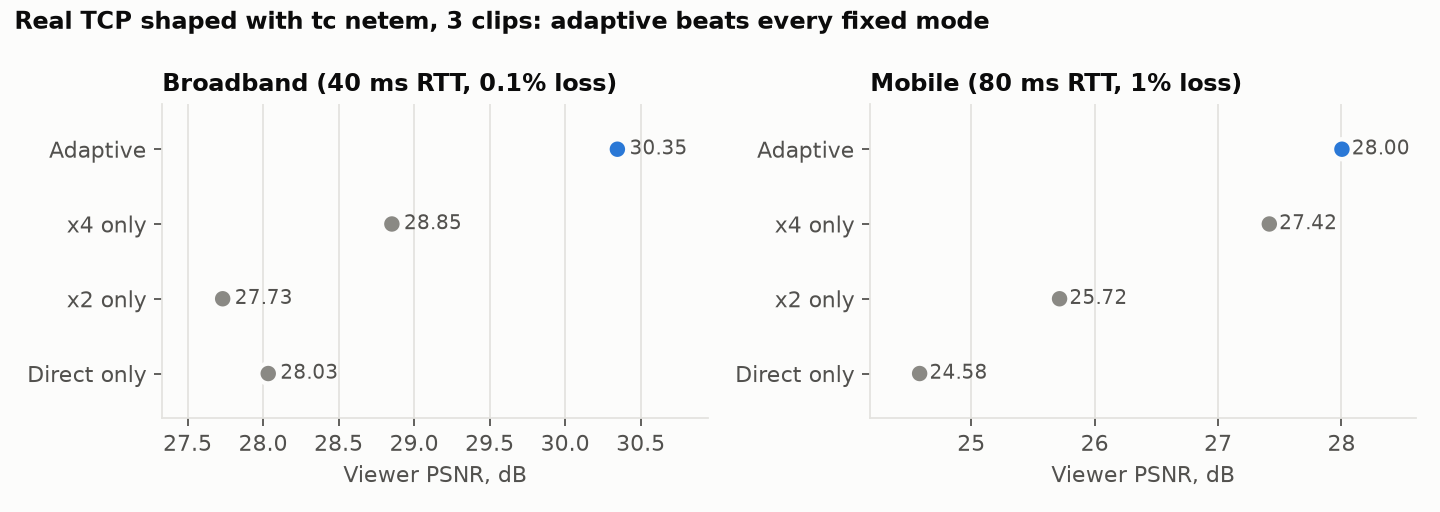
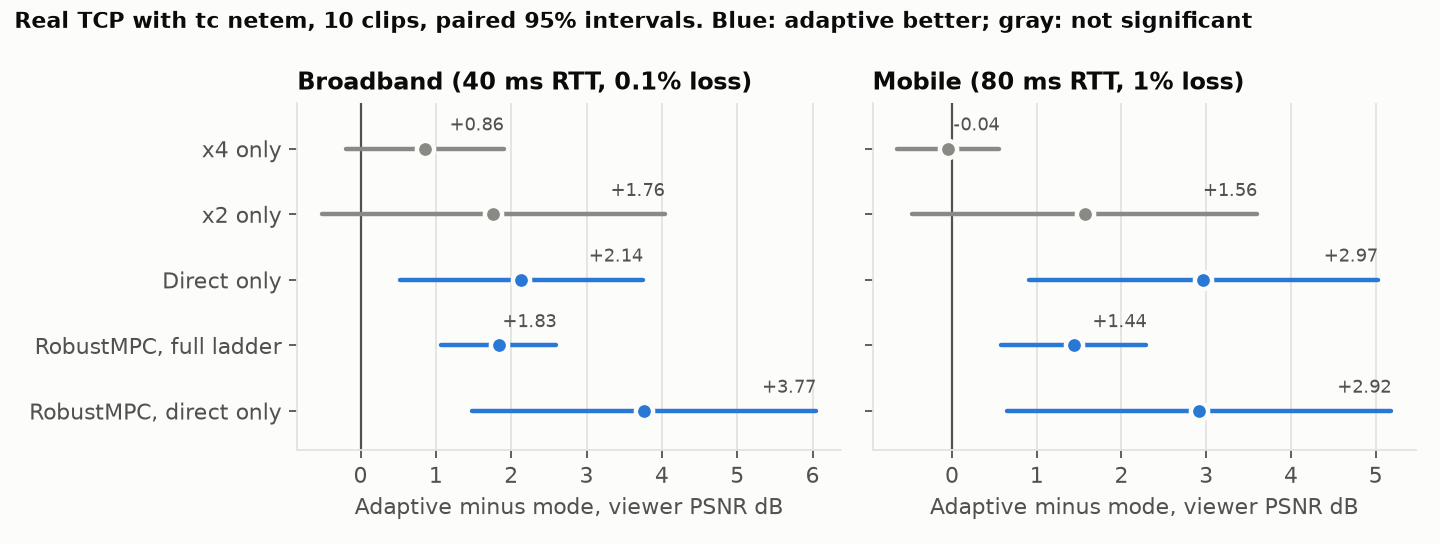
Repeat the tc netem comparison on 10 clips with confidence intervals and RobustMPC
Over real TCP, adaptive beats RobustMPC by 1.83 dB (broadband) and 1.44 dB (mobile)
and direct-only delivery by 2.1-3.0 dB, but is level with x4-only, which has fewer
late frames. This revises the three-clip result that adaptive beat every fixed mode.

diff --git a/scripts/plot_report.py b/scripts/plot_report.py
@@ -7,8 +7,8 @@ Needs only matplotlib and numpy (any Python with them, for example the system on
 
 Inputs: configs/rate_quality.json, results/baselines/offline.json,
 results/no-state/offline.json, results/final/baselines-live/summary.json,
-results/final/compare/summary.json, results/netem-*/summary.json,
-results/multiclip/ci.json.
+results/final/compare/summary.json, results/multiclip/ci.json,
+results/multiclip-netem-*/ci.json.
 """
 from __future__ import annotations
 
@@ -176,24 +176,35 @@ def timeline(clip: str = 'NRqG3AEOVGg@1440.mp4') -> None:
     plt.close(fig)
 
 
+def forest(ax, ci: dict, rows: list[tuple[str, str]], metric: str, digits: int) -> None:
+    """Adaptive minus each mode with its 95% interval: blue if adaptive is better, orange if worse, gray if neither."""
+    ax.axvline(0, color=INK2, linewidth=1)
+    for i, (mode, _) in enumerate(rows):
+        d = ci[mode][metric]['reference_minus_mode']
+        lo, hi = d['mean'] - d['ci95'], d['mean'] + d['ci95']
+        colour = BLUE if lo > 0 else ORANGE if hi < 0 else GRAY
+        ax.plot([lo, hi], [i, i], color=colour, linewidth=2, solid_capstyle='round')
+        ax.scatter(d['mean'], i, s=60, color=colour, edgecolor=SURFACE, linewidth=2, zorder=3)
+        ax.text(hi, i + 0.28, f"{d['mean']:+.{digits}f}", ha='right', color=INK2, fontsize=8)
+    ax.grid(axis='y', visible=False)
+    ax.set_ylim(-0.6, len(rows) - 0.3)
+
+
 def netem() -> None:
-    fig, axes = plt.subplots(1, 2, figsize=(9, 3.2))
-    labels = {'direct': 'Direct only', 'x2': 'x2 only', 'x4': 'x4 only', 'adaptive': 'Adaptive'}
+    rows = [('x4', 'x4 only'), ('x2', 'x2 only'), ('direct', 'Direct only'), ('mpc', 'RobustMPC, full ladder'),
+            ('mpc-direct', 'RobustMPC, direct only')][::-1]
+    fig, axes = plt.subplots(1, 2, figsize=(9, 3.4), sharey=True)
     for ax, profile, title in ((axes[0], 'broadband', 'Broadband (40 ms RTT, 0.1% loss)'),
                                (axes[1], 'mobile', 'Mobile (80 ms RTT, 1% loss)')):
-        modes = runs(f'results/netem-{profile}/summary.json')
-        rows = [(labels[m], viewer(modes[m])) for m in labels]
-        names, values = zip(*rows)
-        dots(ax, names, values, [BLUE if n == 'Adaptive' else GRAY for n in names])
+        forest(ax, load(f'results/multiclip-netem-{profile}/ci.json')['modes'], rows, 'viewer_psnr', 2)
         ax.set_title(title)
-        ax.set_xlabel('Viewer PSNR, dB')
-        ax.grid(axis='y', visible=False)
-    fig.suptitle('Real TCP shaped with tc netem, 3 clips: adaptive beats every fixed mode', x=0.01, ha='left',
-                 fontsize=11, fontweight='bold', color=INK)
+        ax.set_xlabel('Adaptive minus mode, viewer PSNR dB')
+    axes[0].set_yticks(range(len(rows)), [label for _, label in rows])
+    fig.suptitle('Real TCP with tc netem, 10 clips, paired 95% intervals. Blue: adaptive better; gray: not significant',
+                 x=0.01, ha='left', fontsize=10, fontweight='bold', color=INK)
     fig.tight_layout()
     fig.savefig(OUT / 'netem.png', dpi=160)
     plt.close(fig)
-
 
 def multiclip() -> None:
     """Adaptive minus each mode, paired by clip, with 95% intervals (scripts/summarise_clips.py)."""
@@ -203,26 +214,15 @@ def multiclip() -> None:
             ('adaptive-span', 'SPAN in controller'), ('adaptive-cdavsr', 'CDA-VSR in controller'),
             ('adaptive-efrlfn', 'EfRLFN in controller')][::-1]
     fig, axes = plt.subplots(1, 2, figsize=(9, 4.0), sharey=True)
-    for ax, metric, title in ((axes[0], 'viewer_psnr', 'Viewer PSNR, dB'), (axes[1], 'viewer_vmaf', 'VMAF')):
-        ax.axvline(0, color=INK2, linewidth=1)
-        for i, (mode, _) in enumerate(rows):
-            d = ci[mode][metric]['reference_minus_mode']
-            lo, hi = d['mean'] - d['ci95'], d['mean'] + d['ci95']
-            colour = BLUE if lo > 0 else ORANGE if hi < 0 else GRAY
-            ax.plot([lo, hi], [i, i], color=colour, linewidth=2, solid_capstyle='round')
-            ax.scatter(d['mean'], i, s=60, color=colour, edgecolor=SURFACE, linewidth=2, zorder=3)
-            ax.text(hi, i + 0.28, f"{d['mean']:+.{2 if metric == 'viewer_psnr' else 1}f}", ha='right',
-                    color=INK2, fontsize=8)
+    for ax, metric, title, digits in ((axes[0], 'viewer_psnr', 'Viewer PSNR, dB', 2), (axes[1], 'viewer_vmaf', 'VMAF', 1)):
+        forest(ax, ci, rows, metric, digits)
         ax.set_title(f'Adaptive minus mode: {title}')
-        ax.grid(axis='y', visible=False)
-        ax.set_ylim(-0.6, len(rows) - 0.3)
     axes[0].set_yticks(range(len(rows)), [label for _, label in rows])
     fig.suptitle('Emulated link, 18 clips, paired 95% intervals. Blue: adaptive better; orange: worse; gray: not significant',
                  x=0.01, ha='left', fontsize=10, fontweight='bold', color=INK)
     fig.tight_layout()
     fig.savefig(OUT / 'multiclip.png', dpi=160)
     plt.close(fig)
-
 
 def main() -> None:
     OUT.mkdir(parents=True, exist_ok=True)

diff --git a/docs/REPORT.md b/docs/REPORT.md
@@ -41,8 +41,11 @@ Results:
   over the same ladder: +1.32 ± 0.44 dB, +7.4 VMAF and 33 ms lower p95 latency.
 - **Offline, the model leads on PSNR but not on perceptual metrics.** CDA-VSR and SPAN
   score higher VMAF at ×4, because UpStreamVSR was trained on a pixel loss.
-- **Over real TCP shaped with tc netem**, adaptive delivery beats every fixed delivery
-  mode: by 1.5 dB on a broadband profile and 0.6 dB on a mobile one.
+- **Over real TCP shaped with tc netem** (10 clips):
+  - Adaptive delivery beats RobustMPC by 1.4–1.8 dB and 720p-only delivery by 2.1–3.0 dB,
+    on a broadband profile and a mobile one.
+  - It does not beat fixed ×4 delivery significantly: +0.9 dB on broadband (not
+    significant), and level on mobile, where ×4 has the lower latency.
 - **Ablations** show that the sender's backlog guard is the largest single contribution
   (0.83 dB, and half the late frames).
 - **The recurrent memory**, borrowed from recent video super-resolution, added no
@@ -534,20 +537,48 @@ Bold Δ: the interval excludes zero.
 - **The three-clip result was clip luck.** On three clips ×2 only led by 0.35 dB; on 18,
   PSNR is tied.
 
-Real TCP with tc netem (3 clips):
+Real TCP with tc netem, **10 clips** (adaptive minus mode, paired by clip, ± 95% CI;
+clips adaptive wins; bold: the interval excludes zero):
 
 ![tc netem](figures/netem.png)
+
+| vs | Broadband PSNR dB | Broadband VMAF | Mobile PSNR dB | Mobile VMAF |
+|---|---:|---:|---:|---:|
+| direct only | **+2.14 ± 1.61** (8/10) | **+6.7 ± 4.8** | **+2.97 ± 2.06** (7/10) | **+6.4 ± 5.6** |
+| ×2 only | +1.76 ± 2.27 (6/10) | +2.6 ± 8.0 | +1.56 ± 2.03 (6/10) | −1.3 ± 5.4 |
+| ×4 only | +0.86 ± 1.04 (7/10) | **+7.1 ± 4.0** | −0.04 ± 0.60 (5/10) | +1.4 ± 3.1 |
+| RobustMPC, full ladder | **+1.83 ± 0.77** (9/10) | **+10.0 ± 3.7** | **+1.44 ± 0.86** (9/10) | **+5.8 ± 5.4** |
+| RobustMPC, direct only | **+3.77 ± 2.28** (9/10) | **+13.9 ± 8.0** | **+2.92 ± 2.27** (8/10) | +6.5 ± 7.8 |
+| *adaptive itself* | *30.07 dB* | *61.1* | *27.19 dB* | *46.0* |
+
+- **Adaptive clearly beats RobustMPC and 720p delivery on both profiles.** The MPC gap
+  is larger here than on the emulated link (+1.32 dB). Over TCP, MPC's lagging estimate
+  and missing backlog guard cost more, and its longest freeze is 1.7–2.5 s longer.
+- **×4 only is not beaten.**
+  - On broadband, adaptive leads in VMAF and LPIPS, but its PSNR lead (+0.86 dB) is not
+    significant.
+  - On mobile, the two tie on every quality metric.
+  - ×4 only, the smallest stream, has the fewest late and skipped frames and the
+    shortest freezes on both profiles. On mobile, adaptive has 87 more late and skipped
+    frames and a 39 ms higher p95 latency.
+- **×2 only** is behind on average (1.6–1.8 dB), but it varies too much across clips
+  for significance.
+- **Why real TCP hurts fixed modes:** a lost packet stalls everything behind it, so
+  rates that fit on an emulated link overflow the deadline.
+- **This revises the three-clip run** (below), where adaptive beat every fixed mode.
+  On a lossy path, always sending the smallest stream is a strong policy, and the
+  controller still pays in late frames when it moves to larger streams.
+
+The earlier three-clip run, for reference:
 
 | Profile | Direct | ×2 | ×4 | **Adaptive** |
 |---|---:|---:|---:|---:|
 | Broadband (40 ms RTT, 0.1% loss) | 28.03 | 27.73 | 28.85 | **30.35** |
 | Mobile (80 ms RTT, 1% loss) | 24.58 | 25.72 | 27.42 | **28.00** |
 
-- **Adaptive is best on both profiles:** +1.5 dB on broadband and +0.6 dB on mobile.
-- **Why real TCP hurts fixed modes:** a lost packet stalls everything behind it, so
-  rates that fit on an emulated link overflow the deadline. Only the controller backs
-  off.
-- **Per clip,** adaptive is best in 3 of 6 runs and within 0.3 dB in 2 more. It loses
+- On these three clips adaptive was best on both profiles: +1.5 dB on broadband and
+  +0.6 dB on mobile.
+- **Per clip,** adaptive was best in 3 of 6 runs and within 0.3 dB in 2 more. It loses
   clearly once, to ×4 only, on one clip over mobile.
 - **Noise:** real-network runs vary by 0.3–1.5 dB from run to run, even for direct,
   which uses no model.
@@ -622,10 +653,15 @@ another process holding the GPU at 98% utilisation.
   maximises predicted PSNR. Where direct and ×2 are nearly tied in PSNR, it switches to
   direct, which costs VMAF and LPIPS against staying on ×2. A perceptual quality table,
   or a switching penalty, is the natural fix.
-- **Three clips were not enough.** Two three-clip conclusions shrank or reversed on 18
-  clips:
+- **Three clips were not enough.** Three three-clip conclusions shrank or reversed on
+  more clips:
   - the margin over the published models;
-  - ×2 only beating adaptive.
+  - ×2 only beating adaptive on the emulated link;
+  - adaptive beating ×4 only over real TCP.
+- **On lossy paths, the controller should be more cautious.** Over tc netem, fixed ×4
+  matches it in quality with fewer late frames. A capacity estimate that accounts for
+  loss and RTT, or a tighter latency budget on lossy links, is the next controller
+  change to try.
   Paired confidence intervals over clips should be the default.
 - **The bandwidth case for upscaling is real but bounded.** Below about 1 Mbit/s,
   sending fewer pixels and upscaling wins; above that, direct wins. The controller's job
@@ -636,7 +672,9 @@ another process holding the GPU at 98% utilisation.
 - **Hardware and scale:**
   - one laptop GPU;
   - the emulated-link and offline comparisons use 18 clips of 30 s each;
-  - the tc netem runs use 3 clips, and each mode runs once per clip;
+  - the tc netem runs use 10 clips;
+  - each mode runs once per clip, so run-to-run noise over real TCP (0.3–1.5 dB) is
+    inside the intervals but not separated from clip differences;
   - networks are emulated or shaped on one machine.
 - **Metrics:** PSNR, VMAF and LPIPS, but no user study.
   - The model was trained for PSNR, and it trails CDA-VSR and SPAN on perceptual
@@ -651,7 +689,8 @@ another process holding the GPU at 98% utilisation.
 - A perceptual term (LPIPS or a feature loss) in fine-tuning, and a quality table in
   VMAF for the controller.
 - A small user study.
-- The tc netem comparison on more clips (`sudo bash scripts/run_netem.sh multi`).
+- A loss- and RTT-aware capacity estimate for the controller, to close the gap to fixed
+  ×4 delivery on lossy paths.
 - A weaker GPU, where anytime depth and GPU awareness should matter.
 - Fine-tuning the published models on StreamSR, for a stricter comparison.
 - 1080p output.

diff --git a/docs/COMPARISON.md b/docs/COMPARISON.md
@@ -395,7 +395,8 @@ model in brackets:
 | mobile | x4 | 27.42 (25.95) | 2217 / 35 / 448 | 161 | 17.5 (21.7) |
 | mobile | **adaptive** | **28.00** (27.44) | 1886 / 130 / 684 | 227 | 11.2 (13.6) |
 
-- **Adaptive is still best on both profiles**: +1.5 dB over the best fixed mode on
+- **Adaptive is still best on both profiles** (three clips; on 10 clips it is level
+  with x4 only, see the last section): +1.5 dB over the best fixed mode on
   broadband and +0.6 dB on mobile (earlier model: +1.9 and +0.9). Per clip it is best
   in 3 of 6 runs and within 0.3 dB of the best in 2 more. It loses clearly only on
   LjOrDJOjSMg over mobile, to x4 only (27.40 vs 25.20 dB), as with the earlier model.
@@ -536,3 +537,74 @@ python scripts/compare_modes.py data/test-clips/*.mp4 --half --resume --out resu
     --modes direct x2 x4 adaptive mpc mpc-direct adaptive-efrlfn adaptive-span adaptive-nanovsr adaptive-cdavsr
 python scripts/summarise_clips.py results/multiclip/summary.json --json results/multiclip/ci.json --markdown results/multiclip/ci.md
 ```
+
+## tc netem on 10 clips, with confidence intervals and RobustMPC (2026-11-25)
+
+`sudo bash scripts/run_netem.sh multi`. The first 10 test clips run over real TCP
+shaped with tc netem. Same profiles and rate schedule as above; modes direct, x2, x4,
+adaptive, mpc and mpc-direct; final model (results/multiclip-netem-broadband,
+results/multiclip-netem-mobile; 120 runs).
+
+**Run validity:**
+- **One run redone.** Broadband p-kAI-qOeJA mpc-direct ran while other work loaded the
+  CPU: its 720p decode was 30% slower than in the clean emulated run, and the clock was
+  4.02 GHz. It was redone (results/multiclip-netem-broadband).
+- **All others are clean:**
+  - CPU at 4.0–4.3 GHz;
+  - decode times at or below the clean runs of the same clips.
+- **Two mobile MPC runs** (LjOrDJOjSMg mpc, NRqG3AEOVGg mpc-direct) show up to 0.9 s
+  of server release lag. This lag comes from the network, not the machine:
+  - The encoder stayed 33 ms ahead and the CPU clock was normal.
+  - The sender's blocking write stalled because MPC sent more than the lossy link
+    carried, with no backlog guard.
+  - That is part of what this test measures, so the runs are kept.
+
+Adaptive minus each mode, paired by clip, ± 95% CI (clips adaptive wins). Bold: the
+interval excludes zero.
+
+| Profile | vs | Viewer PSNR dB | VMAF | LPIPS | p95 ms | Late + skipped | Longest freeze ms |
+|---|---|---:|---:|---:|---:|---:|---:|
+| broadband | direct | **+2.14 ± 1.61** (8/10) | **+6.7 ± 4.8** | **−0.055 ± 0.049** | −3 ± 21 | **−116 ± 103** | −2227 ± 2940 |
+| broadband | x2 | +1.76 ± 2.27 (6/10) | +2.6 ± 8.0 | −0.042 ± 0.065 | −3 ± 14 | −81 ± 123 | −1786 ± 2629 |
+| broadband | x4 | +0.86 ± 1.04 (7/10) | **+7.1 ± 4.0** | **−0.022 ± 0.020** | **+12 ± 9** | **+96 ± 33** | **+891 ± 473** |
+| broadband | mpc | **+1.83 ± 0.77** (9/10) | **+10.0 ± 3.7** | **−0.052 ± 0.035** | +4 ± 9 | −42 ± 59 | **−2538 ± 2075** |
+| broadband | mpc-direct | **+3.77 ± 2.28** (9/10) | **+13.9 ± 8.0** | **−0.092 ± 0.067** | −38 ± 54 | **−148 ± 103** | **−4330 ± 3781** |
+| mobile | direct | **+2.97 ± 2.06** (7/10) | **+6.4 ± 5.6** | **−0.063 ± 0.053** | +7 ± 39 | **−172 ± 107** | **−2806 ± 2410** |
+| mobile | x2 | +1.56 ± 2.03 (6/10) | −1.3 ± 5.4 | −0.025 ± 0.050 | +6 ± 46 | −80 ± 107 | −2078 ± 2316 |
+| mobile | x4 | −0.04 ± 0.60 (5/10) | +1.4 ± 3.1 | −0.002 ± 0.020 | +39 ± 40 | **+87 ± 64** | +520 ± 655 |
+| mobile | mpc | **+1.44 ± 0.86** (9/10) | **+5.8 ± 5.4** | **−0.029 ± 0.026** | +13 ± 33 | −46 ± 78 | **−1704 ± 1191** |
+| mobile | mpc-direct | **+2.92 ± 2.27** (8/10) | +6.5 ± 7.8 | −0.066 ± 0.065 | **−51 ± 48** | **−140 ± 125** | **−4324 ± 3388** |
+
+Adaptive itself: 30.07 ± 2.56 dB on broadband and 27.19 ± 2.33 dB on mobile.
+
+### What the 10 clips show
+
+- **Against RobustMPC, the controller is ahead on both profiles:**
+  - +1.83 ± 0.77 dB (broadband) and +1.44 ± 0.86 dB (mobile), on 9 of 10 clips each;
+  - higher VMAF and lower LPIPS;
+  - a longest freeze 1.7–2.5 s shorter.
+  The gain is larger than on the emulated link (+1.32 dB). Over real TCP, MPC's lagging
+  estimate and lack of a backlog guard cost more.
+- **Against 720p delivery, with or without MPC, the gain is large and significant:**
+  +2.1 to +3.8 dB.
+- **×4 only is not beaten.**
+  - On broadband, adaptive is +0.86 ± 1.04 dB in PSNR (not significant). It is
+    significantly ahead in VMAF (+7.1) and LPIPS.
+  - On mobile it ties: −0.04 ± 0.60 dB, with VMAF and LPIPS level.
+  - ×4 only has the lowest bitrate, so it has the fewest late and skipped frames, the
+    shortest freezes and the lowest p95 latency on both profiles.
+  - On mobile, adaptive's late and skipped frames are 87 higher, and its p95 latency
+    39 ± 40 ms higher.
+- **×2 only:** adaptive is ahead on average, by 1.6–1.8 dB, but the interval includes
+  zero. ×2 only fails badly on some clips and holds level on others.
+- **This revises the three-clip result.** On three clips, adaptive beat every fixed
+  mode, by +1.5 dB (broadband) and +0.6 dB (mobile). On 10 clips:
+  - it clearly beats direct-only delivery and RobustMPC;
+  - it is level with ×4 only, which has better latency and freezes.
+  On a lossy, high-delay path, the safest fixed choice (always the smallest stream)
+  is hard to beat. The controller still pays for its moves to larger streams in late
+  frames.
+- **Possible improvements:**
+  - make the capacity estimate account for loss and RTT, so the controller reacts to
+    TCP's effective rate;
+  - lower the latency budget on lossy paths.

diff --git a/docs/GOALS.md b/docs/GOALS.md
@@ -40,7 +40,7 @@ Complete a live video upscaling pipeline that balances four things:
 | 2 | Prepare the full StreamSR data and train on Kaggle | Third design trained at 32 channels: +0.82 dB over bicubic at x2, +1.15 at x4 on the test set (docs/MODEL.md). Earlier results were invalid because of a colour error in the Kaggle data, now fixed. 48-channel run after the quota reset |
 | 3 | Live integration: motion vectors from the decoder, per-frame depth, separate reconstruction and display threads | Done for one machine (docs/LIVE.md): frames ready 12 to 13 ms after release, no drops, switches on keyframes; rerun with the trained third design: ready 12 to 13.5 ms after release |
 | 4 | Trade-off controller with mid-stream resolution and bitrate switching | Done (docs/CONTROLLER.md): 13-rung ladder, capacity from keyframes, backlog guard, GPU-aware. BD-rate against direct: x4 -31%, x2 -4%. Upscaling wins below about 1 Mbit/s |
-| 5 | Evaluation with shaped network conditions, ablation of each technique, sustained run | Shaped-network evaluation done (docs/COMPARISON.md): over real TCP with tc netem, adaptive has the best mean viewer PSNR on broadband (+1.9 dB) and mobile (+0.9 dB) profiles. 5-minute sustained run passed: 9,000 frames at 30 fps, median latency flat at 155 ms, no encoder late releases, GPU at most 65 °C. 18-minute long run with the recurrent state never reset: no drift (same clips 9 minutes later within 0.03 dB), state bounded, no NaN or inf. Final model has no state (2026-11-18); all live and tc netem runs repeated with it: same quality within noise (adaptive still best on broadband +1.5 dB and mobile +0.6 dB), 30% less GPU time at x4, 69 MiB peak memory. Live ablation done (docs/ABLATION.md): the model adds 0.78 dB over bicubic, the backlog guard 0.89 dB and half the late frames, anytime exits 0.11 dB under GPU load, GPU awareness no measurable effect on this GPU. Against published models (docs/BASELINES.md): best PSNR at every rung offline (+0.2–0.5 dB over CDA-VSR, +0.8–1.0 dB over NanoVSR), and live +1.1–1.4 dB over EfRLFN, SPAN, NanoVSR and CDA-VSR in the same controller; the only model fast enough for x2. No-state ablation done (docs/ABLATION.md): the recurrent state adds 0.02–0.05 dB at x4, below the noise between training runs, costs 65% more x4 time and causes the x4 flicker. 18 clips with 95% confidence intervals, VMAF and LPIPS, and a RobustMPC baseline (2026-11-25, docs/COMPARISON.md): the controller beats RobustMPC over the same ladder by 1.32 ± 0.44 dB and 7.4 VMAF; over the published models in the controller +0.57 to +1.00 dB; tied with x2-only in PSNR but 2.7 VMAF behind it. Offline, CDA-VSR and SPAN lead on VMAF and LPIPS at x4 |
+| 5 | Evaluation with shaped network conditions, ablation of each technique, sustained run | Shaped-network evaluation done (docs/COMPARISON.md): over real TCP with tc netem, adaptive has the best mean viewer PSNR on broadband (+1.9 dB) and mobile (+0.9 dB) profiles. 5-minute sustained run passed: 9,000 frames at 30 fps, median latency flat at 155 ms, no encoder late releases, GPU at most 65 °C. 18-minute long run with the recurrent state never reset: no drift (same clips 9 minutes later within 0.03 dB), state bounded, no NaN or inf. Final model has no state (2026-11-18); all live and tc netem runs repeated with it: same quality within noise (adaptive still best on broadband +1.5 dB and mobile +0.6 dB), 30% less GPU time at x4, 69 MiB peak memory. Live ablation done (docs/ABLATION.md): the model adds 0.78 dB over bicubic, the backlog guard 0.89 dB and half the late frames, anytime exits 0.11 dB under GPU load, GPU awareness no measurable effect on this GPU. Against published models (docs/BASELINES.md): best PSNR at every rung offline (+0.2–0.5 dB over CDA-VSR, +0.8–1.0 dB over NanoVSR), and live +1.1–1.4 dB over EfRLFN, SPAN, NanoVSR and CDA-VSR in the same controller; the only model fast enough for x2. No-state ablation done (docs/ABLATION.md): the recurrent state adds 0.02–0.05 dB at x4, below the noise between training runs, costs 65% more x4 time and causes the x4 flicker. 18 clips with 95% confidence intervals, VMAF and LPIPS, and a RobustMPC baseline (2026-11-25, docs/COMPARISON.md): the controller beats RobustMPC over the same ladder by 1.32 ± 0.44 dB and 7.4 VMAF; over the published models in the controller +0.57 to +1.00 dB; tied with x2-only in PSNR but 2.7 VMAF behind it. Offline, CDA-VSR and SPAN lead on VMAF and LPIPS at x4. tc netem on 10 clips: beats RobustMPC by 1.83 dB (broadband) and 1.44 dB (mobile) and direct-only by 2.1–3.0 dB; level with x4-only (+0.86 dB broadband, not significant; −0.04 dB mobile), revising the three-clip result |
 | 6 | Report (must explain how the four-way trade-off works and how and why the pipeline switches between direct, x2 and x4, with measured results) and final demo | Report written (docs/REPORT.md, 2026-11-19; 18-clip results added 2026-11-25). Final demo not yet done |
 
 ## Success criteria

diff --git a/README.md b/README.md
@@ -33,7 +33,7 @@ All results are measured on an NVIDIA RTX 3050 Laptop GPU (4 GB).
 | The same models in the live pipeline, same controller, 18 clips | **+0.57 to +1.00 dB** viewer PSNR and **+1.9 to +11.9 VMAF** (all significant at 95%), at 56–66% of their GPU power. UpStreamVSR is the only one fast enough for ×2 live. |
 | Against RobustMPC, a standard ABR controller, same ladder, 18 clips | **+1.32 ± 0.44 dB** viewer PSNR, +7.4 VMAF, 33 ms lower p95 latency, half the longest freeze. |
 | Adaptive vs fixed delivery, emulated link, 18 clips | Ahead of ×4-only on every metric (18/18 clips in PSNR); ahead of direct-only in VMAF (+3.9). Tied with ×2-only in PSNR but 2.7 VMAF behind it; less latency and GPU time. |
-| Adaptive vs fixed delivery over real TCP (tc netem), 3 clips | Adaptive beats direct-only, ×2-only and ×4-only by **+1.5 dB** (broadband) and **+0.6 dB** (mobile). |
+| Over real TCP (tc netem), 10 clips | Adaptive beats RobustMPC by **+1.83 dB** (broadband) and **+1.44 dB** (mobile), and direct-only by +2.1 to +3.0 dB. Level with ×4-only (+0.86 dB broadband, not significant; −0.04 dB mobile), which has fewer late frames. |
 | Bandwidth | For the same PSNR, ×4 + UpStreamVSR needs about 30% fewer bits than direct 720p (BD-rate −28.7%). |
 | Stability | A 5-minute live run held 30 fps, with a flat 155 ms median display latency. |
 
@@ -106,7 +106,7 @@ Reproducing the results:
 |---|---|---|
 | Rate-quality table | `python scripts/measure_rate_quality.py --checkpoint <ckpt>` | [CONTROLLER.md](docs/CONTROLLER.md) |
 | Live comparison of delivery modes | `python scripts/compare_modes.py <clips> --half` | [COMPARISON.md](docs/COMPARISON.md) |
-| Real-network comparison | `sudo bash scripts/run_netem.sh full` | [COMPARISON.md](docs/COMPARISON.md) |
+| Real-network comparison | `sudo bash scripts/run_netem.sh multi` (10 clips) | [COMPARISON.md](docs/COMPARISON.md) |
 | Published models, offline | `python scripts/benchmark_baselines.py --half` | [BASELINES.md](docs/BASELINES.md) |
 | Ablations | `python scripts/compare_modes.py <clips> --modes adaptive adaptive-bicubic ...` | [ABLATION.md](docs/ABLATION.md) |
 | Training (Kaggle) | `kaggle/1_prepare_data.ipynb`, then `kaggle/2b_train_no_state.ipynb` | [MODEL.md](docs/MODEL.md) |
@@ -132,7 +132,8 @@ loads them from `$UPSTREAM_EXTERNAL` (default `~/Github/btp-vsr/external`).
 ## Limitations
 
 - One laptop GPU.
-- Emulated-link and offline comparisons use 18 clips × 30 s; the tc netem runs use 3 clips.
+- Emulated-link and offline comparisons use 18 clips × 30 s; the tc netem runs use 10 clips.
+- Over lossy real TCP, the controller does not beat always sending ×4.
 - The networks are emulated, or shaped with tc netem on one machine.
 - Quality is measured in PSNR, VMAF and LPIPS, with no user study. The model and the
   controller are tuned for PSNR, which costs them on the perceptual metrics.
